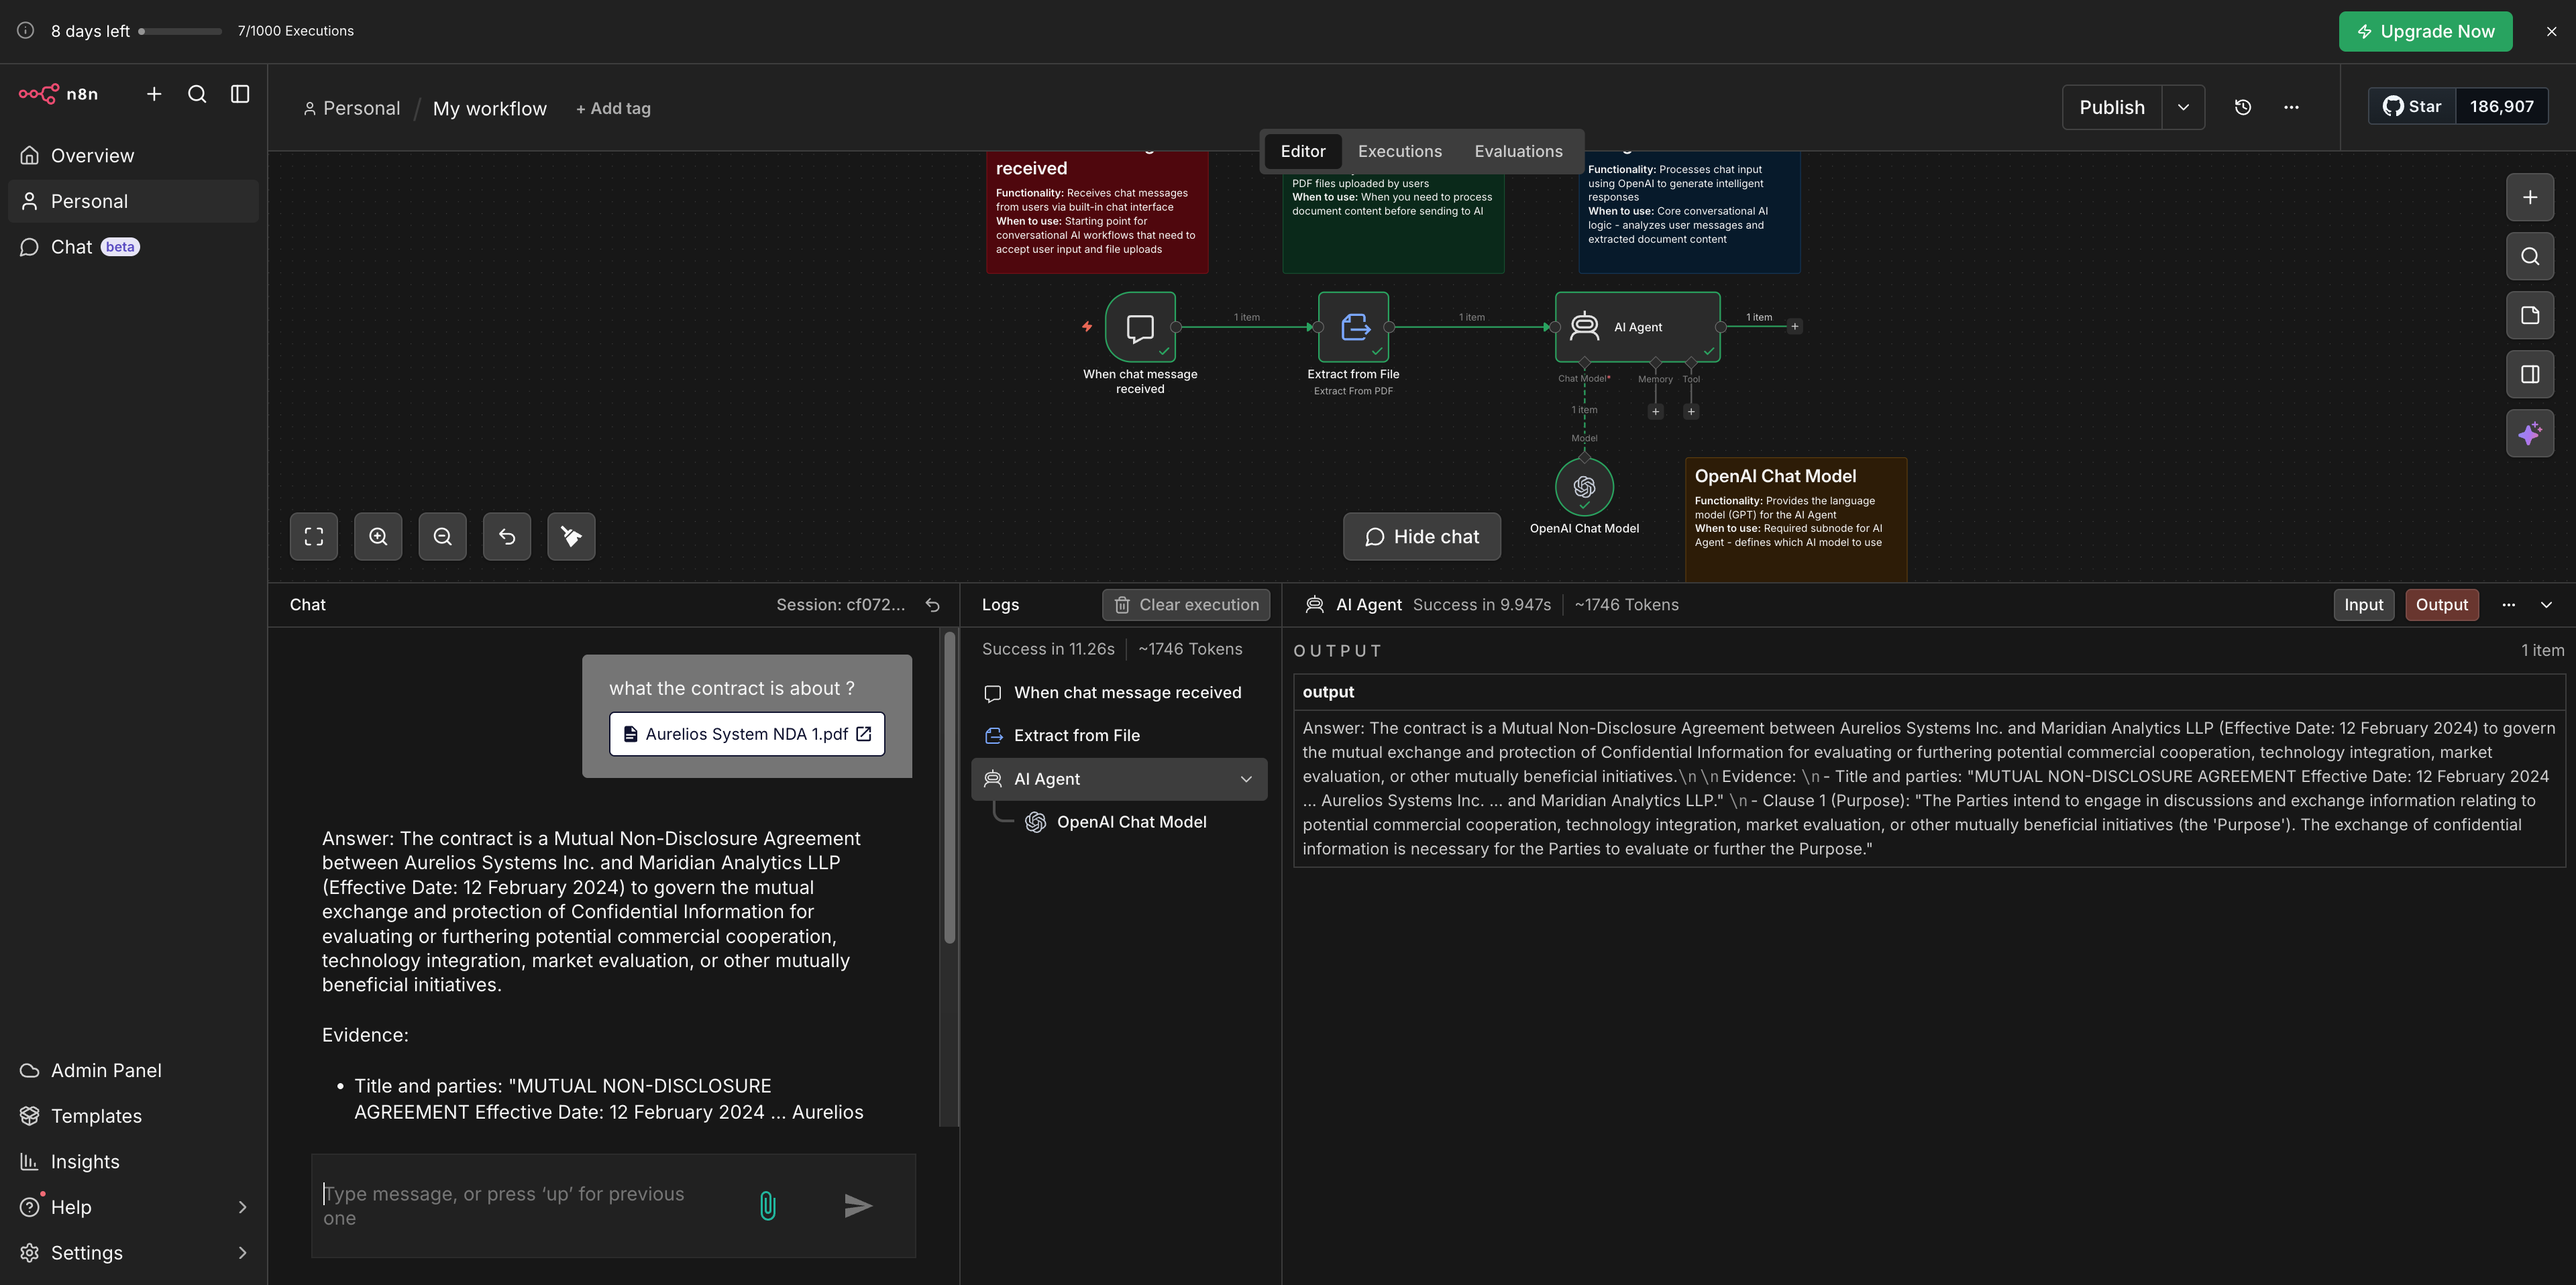
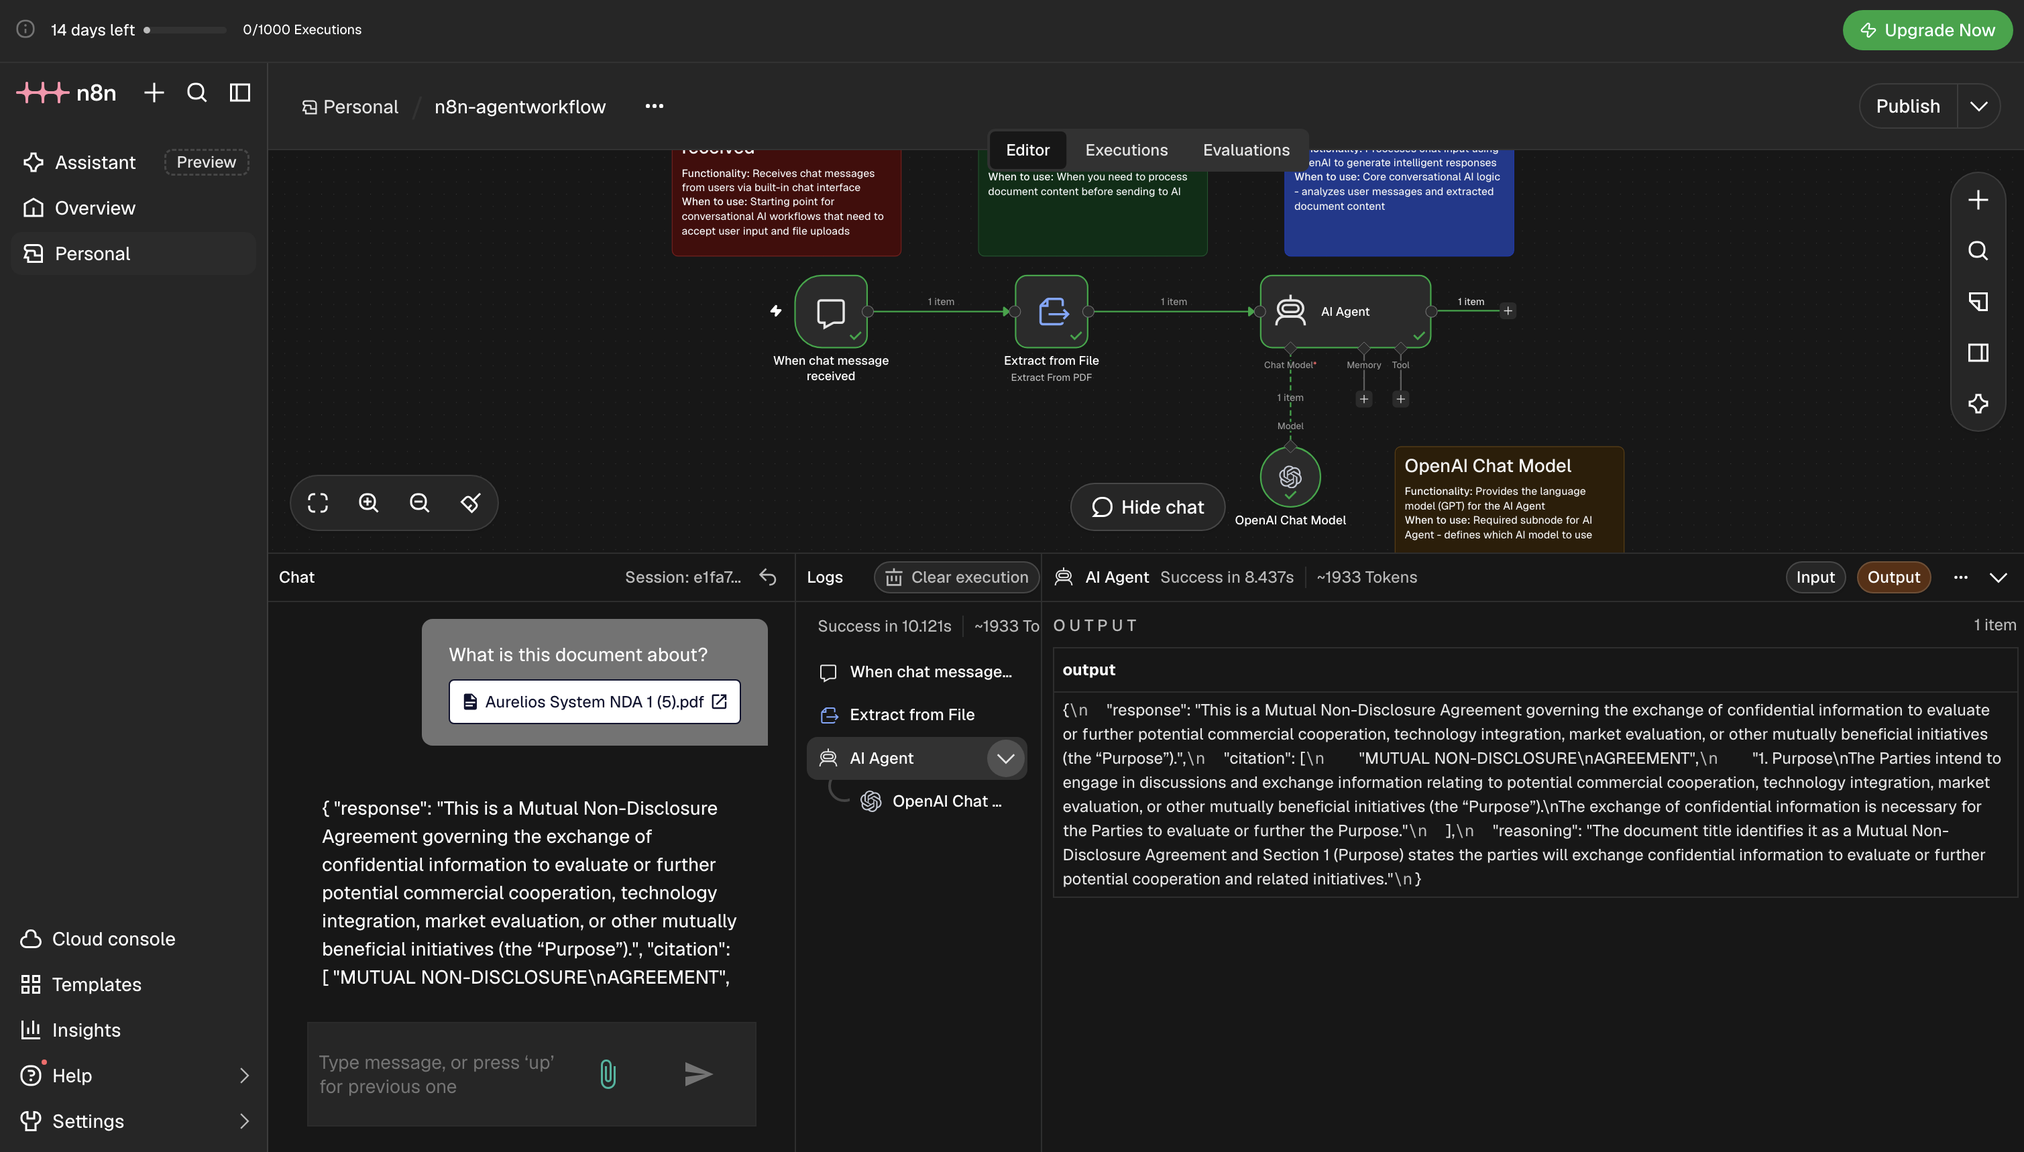
updated ss

diff --git a/Cohort-Labs/cohort-11/week-1/1.1-n8n-agent/README.md b/Cohort-Labs/cohort-11/week-1/1.1-n8n-agent/README.md
@@ -95,7 +95,11 @@ Every block should be joined by a line. If one isn't, drag from the small circle
 
 ## Test Your Agent
 
-Click **"Open Chat"**, upload the sample document, and try these one at a time:
+Click **"Open Chat"**:
+
+![agent-response](./assets/28.png)
+
+upload the **sample document**, and try these one at a time:
 
 *"What is this document about?"*
 
@@ -107,7 +111,7 @@ Click **"Open Chat"**, upload the sample document, and try these one at a time:
 
 ![agent-response](./assets/agent-response.png)
 
-Notice how every answer follows the same format and points to the exact section it came from. That's not luck — it's your System Message at work.
+Notice how every answer follows the same JSON format: a `response` with the answer, a `citation` list with the exact section it came from, and a short `reasoning` that ties the two together. That's not luck — it's your System Message at work.
 
 ### Now try to break it 🤔
 
@@ -115,7 +119,9 @@ Ask something that's *not* in the document:
 
 *"What's the CEO's phone number?"*
 
-The agent should reply: *"This information is not mentioned in the document."*
+The agent should reply with `response` set to *"This information is not mentioned in the contract."*, and both `citation` (`[]`) and `reasoning` (`""`) empty.
+
+![agent-response](./assets/29.png)
 
 > **Why doesn't it make things up?** Because you gave it two things: the full document, and a rule to answer only from it. Keeping an AI tied to a specific source like this is called **grounding**. It's one of the most important ways to make AI answers trustworthy.
 

diff --git a/Cohort-Labs/cohort-11/week-1/1.1-n8n-agent/build-from-scratch.md b/Cohort-Labs/cohort-11/week-1/1.1-n8n-agent/build-from-scratch.md
@@ -180,6 +180,16 @@ Rules for the format
 
 ![system-message](./assets/16.png)
 
+**What the JSON response means**
+
+| Field | What it holds | Why it's there |
+|---|---|---|
+| `response` | The direct answer | What the user reads first |
+| `citation` | An array of exact clauses or sections from the document | Proof the answer came from the document, not the model's imagination. It's always an array, even for one citation |
+| `reasoning` | One or two sentences linking the citation to the answer | Lets the user check the logic without re-reading the contract. It should only point to the evidence, not narrate how the agent searched |
+
+When the answer isn't in the document, there is nothing to cite or explain. The agent returns `"This information is not mentioned in the contract."` in `response`, an empty array `[]` for `citation`, and an empty string `""` for `reasoning`. Structured output like this is also what lets the app you build in Lab 1.2 show the answer and its evidence separately.
+
 > **Use this shape for every agent you build.** The document is just today's example. Whether you're building a support assistant, a meeting-notes summarizer, or an HR policy helper, strong instructions always have the same four parts: **who the agent is**, **what it should do**, **what it must never do**, and **what its answers should look like.**
 
 ### Zero-shot, one-shot, multi-shot
